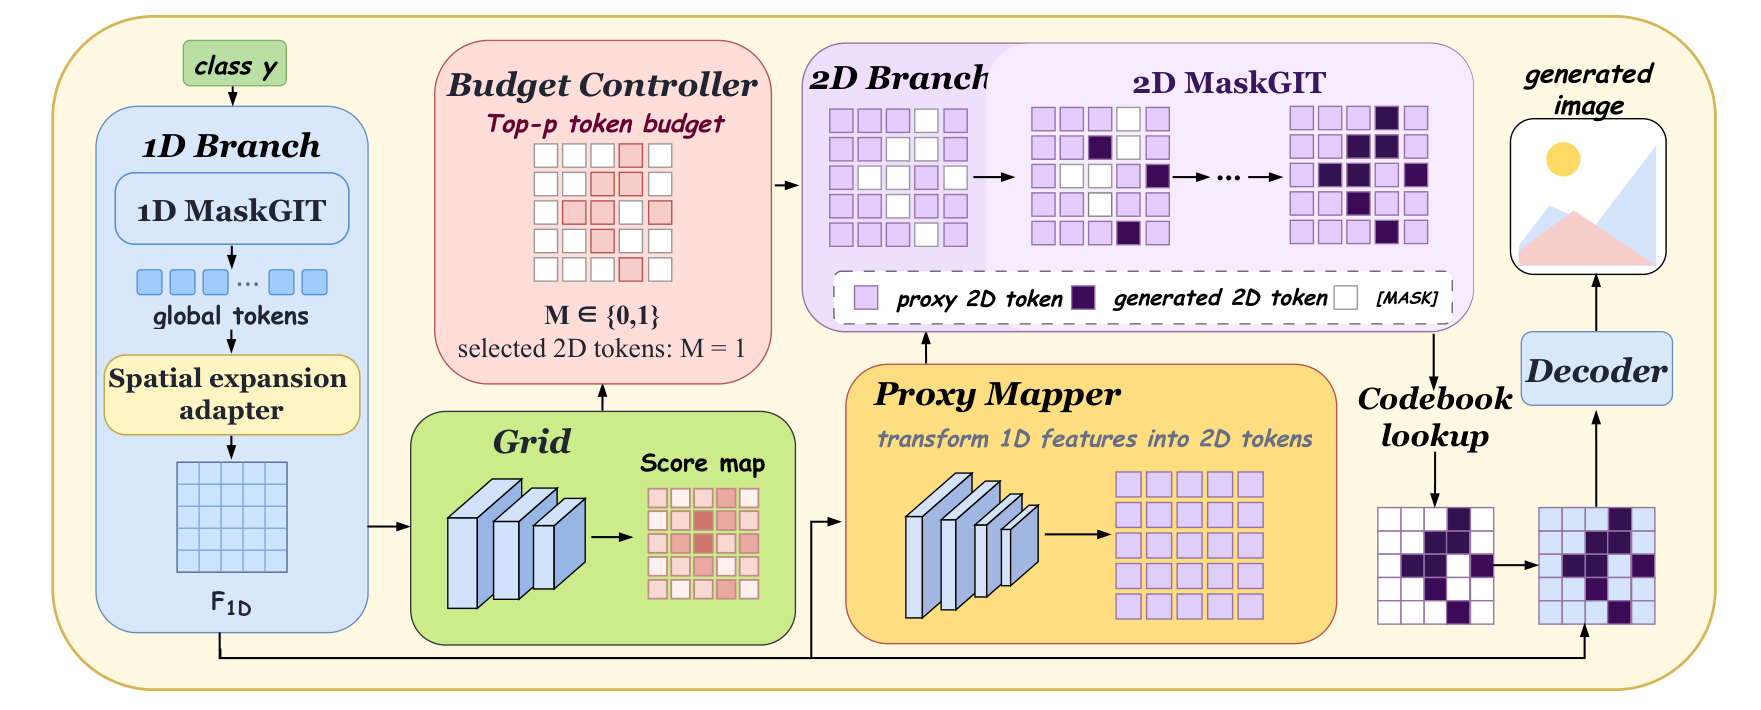
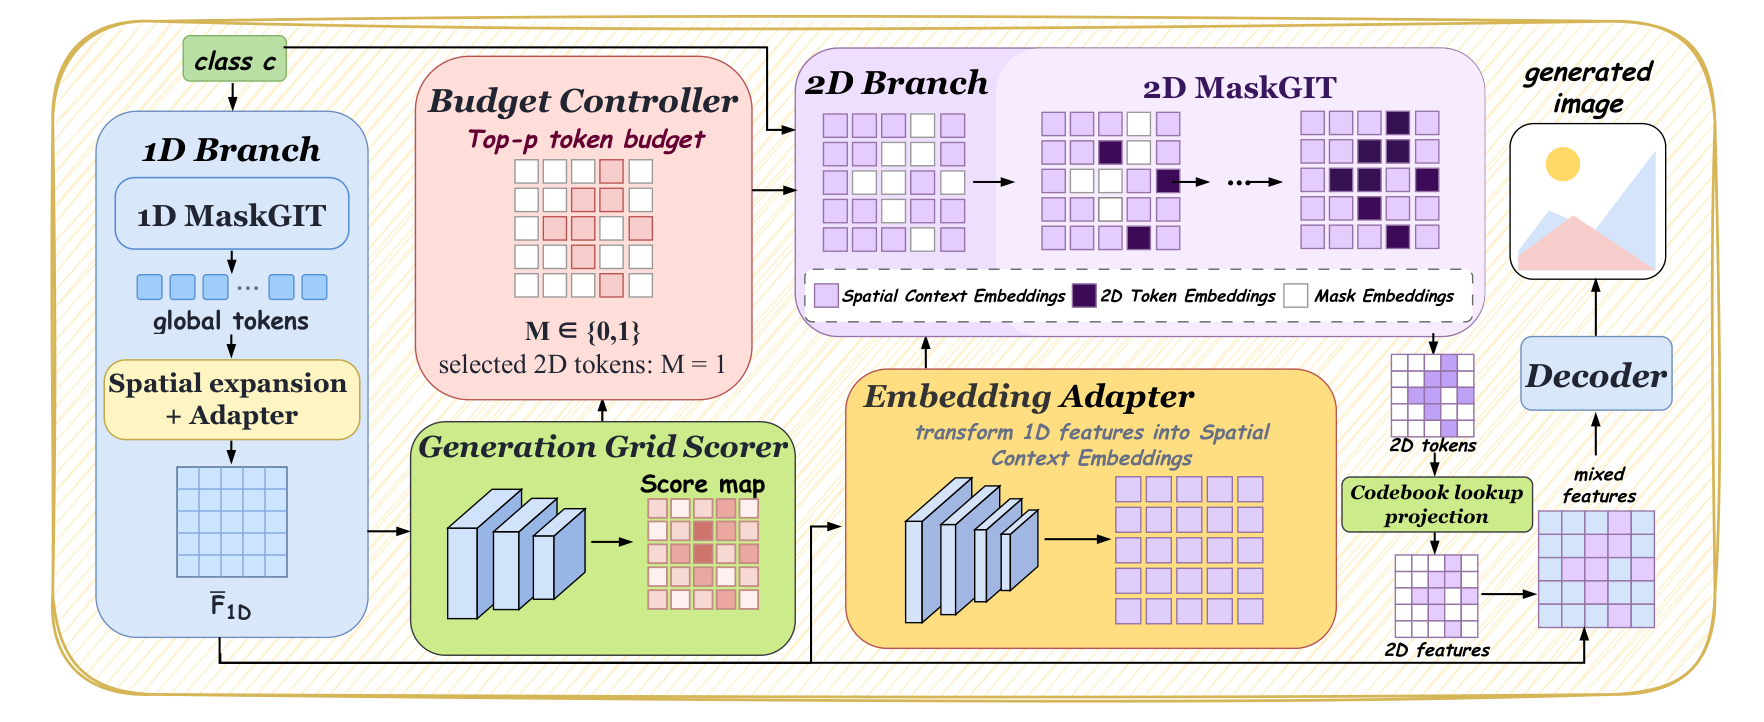
Update paper figures for embedding generation

diff --git a/README.md b/README.md
@@ -16,13 +16,19 @@ MixTok represents an image with **32 global 1D tokens** and a variable number of
 2. **Adaptive refinement.** A scorer ranks the 256 grid locations. After temperature-scaled softmax, top-p selects the smallest ranked prefix whose cumulative probability reaches `p`. The selected count `K(x)` changes with each image.
 3. **Mixed decoding.** Selected locations receive 2D codebook features; unselected locations keep their continuous 1D-derived features. A shared decoder renders the mixed grid.
 
+<p align="center">
+  <img src="docs/recon_main.png" width="94%" alt="MixTok reconstruction: global 1D features, a reconstruction grid scorer, top-p selection, sparse 2D features, and a shared decoder." />
+</p>
+
+*MixTok reconstruction overview. The scorer and top-p controller select spatial locations for 2D refinement.*
+
 For **generation**, a TiTok MaskGIT first samples the 32 1D IDs. A scorer using the resulting 1D features selects 2D locations, and a sparse Halton MaskGIT generates IDs only there. This repository includes proxy-ID conditioning and a newer continuous-context variant that maps 1D features directly to Halton input embeddings. Unselected decoder locations keep their continuous 1D-derived features.
 
 <p align="center">
-  <img src="docs/maskgit.png" width="88%" alt="MixTok generation pipeline with a 1D MaskGIT, top-p grid selection, proxy mapper, sparse 2D MaskGIT, and shared decoder." />
+  <img src="docs/maskgit.png" width="88%" alt="MixTok generation pipeline with a 1D MaskGIT, top-p grid selection, continuous embedding adapter, sparse 2D MaskGIT, and shared decoder." />
 </p>
 
-*Class-conditional generation. The diagram illustrates the proxy-ID branch; the continuous-context variant replaces its proxy mapper with an embedding adapter.*
+*Class-conditional generation with continuous spatial context embeddings. The adapter maps 1D features into the 2D MaskGIT input space; only selected 2D tokens are generated.*
 
 The fixed **96/256** allocation belongs to reconstruction warm-start training. Final reconstruction and generation use image-dependent top-p selection, so the number of selected 2D locations changes with each image.
 

diff --git a/generation/README.md b/generation/README.md
@@ -56,6 +56,8 @@ The run uses global batch 256 (8×32), seed 0, peak LR `2e-5`, 2,500-step warmup
 
 The newer variant maps the 16 × 16 1D feature grid directly to 256 continuous, 768-dimensional Halton input embeddings. It uses the same top-p route policy, generates discrete 2D IDs only at selected locations, and keeps the 1D-derived continuous features at unselected decoder locations. Its embedding adapter starts from fresh parameters; it does not initialize from the proxy-ID mapper.
 
+![MixTok continuous embedding generation: 1D MaskGIT, top-p grid scorer, embedding adapter, sparse 2D MaskGIT, and shared decoder.](../docs/maskgit.png)
+
 The implementation is in [`experiments/continuous_halton_embedding_20260923/`](experiments/continuous_halton_embedding_20260923/). `train_adapter.py` fits the continuous adapter against the official Halton embedding table; `train_halton.py` trains the sparse generator; `sweep_cfg.py` runs the CFG search and final evaluation. `export_top_p_inference.py` can produce a smaller inference-only tokenizer checkpoint, and `verify_top_p_inference.py` checks its tensor equality against the full checkpoint. Training requires the full checkpoint.
 
 Besides the assets above, this variant needs a teacher-proxy cache for adapter targets and a completed **route-only cache** for Halton training. The latter contains `config.json`, `summary.json`, `route_indices.npy`, and `route_k.npy`. It must match the frozen tokenizer and scorer identities checked by [`data.py`](experiments/continuous_halton_embedding_20260923/data.py). The optional `prepare_h20.py` migrates route files from an existing completed proxy-ID baseline; pass both `--baseline-root` and a new `--root` directory. It does not download or rebuild the source caches.
